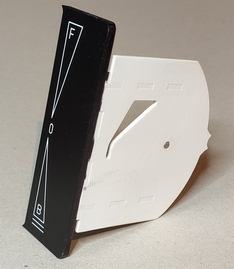
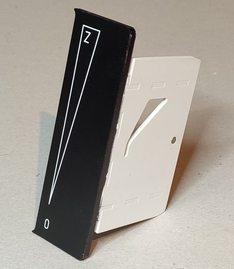
improve text

Changed region(s): [[0.0897, 0.0, 1.0, 0.9814], [0.5085, 0.5651, 0.5385, 0.5948], [0.0897, 0.9814, 0.1197, 1.0]]

diff --git a/_sass/moonwalk.scss b/_sass/moonwalk.scss
@@ -6,7 +6,7 @@ html { height: 100%; }
 body {
   font-family:  "Inter", -apple-system, "avenir next", avenir, roboto, noto, ubuntu, "helvetica neue", helvetica, sans-serif;
   font-size: 1.0rem;
-  line-height: 2;
+  line-height: 1.5;
   margin: 0;
   min-height: 100%;
 }
@@ -39,9 +39,10 @@ li { margin: 0.4em 0; }
 
 table, th, td {
   width: 100%;
-  border: thin solid black;
+  border: thin solid var(--border);
   border-collapse: collapse;
   padding: 0.4em;
+  vertical-align: top;
 }
 
 div.highlighter-rouge pre code, pre code.highlighter-rouge {
@@ -52,7 +53,7 @@ div.highlighter-rouge pre code, pre code.highlighter-rouge {
 
 blockquote {
   font-style: italic;
-  border: thin solid black;
+  border: thin solid var(--border);
   padding: 1em;
 
   p { margin: 0; }
@@ -74,6 +75,7 @@ img {
       --highlight: #FFECB2; // light yellow
       --code-text: #9D174D;
       --share-text: #999;
+      --border: #374151;
   }
 }
 // -------------- THEME SWITCHER -------------- //
@@ -88,6 +90,7 @@ img {
       --text-secondary: #9CA3AF;
       --code-text: #91A7FF;
       --share-text: #C4C4C4;
+      --border: #adb5bd;
   };
 }
 

diff --git a/_posts/2022-08-04-fahrpult.md b/_posts/2022-08-04-fahrpult.md
@@ -3,7 +3,7 @@ layout: post
 title: Fahrpult
 ---
 
-Nachdem mein RailDriver Fahrpult, das ich mit <a href="http://www.zusi.de/">Zusi 3</a> benutzt habe, den Geist aufgegeben hat, musste ein neues Fahrpult her. Da der Platz auf meinem Arbeitstisch beschränkt ist, musste das Pult zwar kompakt, aber noch ergonomisch zu bedienen sein.
+Nachdem mein RailDriver Fahrpult, das ich mit <a href="http://www.zusi.de/">Zusi 3</a> eingesetzt habe, den Geist aufgegeben hatte, musste ein neues Fahrpult her. Da der Platz auf meinem Arbeitstisch begrenzt ist, sollte das Pult ergonomisch bedienbar, aber auch möglichst kompakt sein.
 
 Der Rahmen aus Holz hat die Aussenmaße 80 x 30 cm.
 ![Bilder Fahrpult]({{ site.baseurl }}/assets/images/photos/Fahrpult/Fahrpult01.jpg)
@@ -11,25 +11,38 @@ Der Rahmen aus Holz hat die Aussenmaße 80 x 30 cm.
 Das Panel besteht aus 3 Teilen, die aus Polystyrol gefräst wurden.
 ![Bilder Fahrpult]({{ site.baseurl }}/assets/images/photos/Fahrpult/Fahrpult02.jpg)
 
-Fahr- und Bremshebel sind von StillerTec. Hier ist ein Bild vom Prototyp meines Fahrpultes.
+Fahr- und Bremshebel sind von StillerTec. Hier ist ein Bild vom Prototyp des Fahrpultes.
 ![Bilder Fahrpult]({{ site.baseurl }}/assets/images/photos/Fahrpult/Fahrpult03.jpg)
 
 Taster und Schalter sind vom Elektronikversand. Die Griffe dazu sind aus 9 mm Sperrholz gefräst, lackiert und aufgeklebt.
 ![Bilder Fahrpult]({{ site.baseurl }}/assets/images/photos/Fahrpult/Fahrpult04.jpg)
 
-Die USB-Schnittstelle zum PC ist ein PoKeys57U, der gleichzeitig als Joystick und als Tastatur arbeitet. Dadurch konnten neben den Hebeln und Tasten des Führerstandes auch die Tasten für Standort Führerstand/vorne/hinten sowie Zeitraffer, Pause und Zeitsprung realisiert werden.
+Die USB-Schnittstelle zum PC ist ein PoKeys57U, der gleichzeitig als Joystick und als Tastatur arbeitet. Dadurch konnten neben den Hebeln und Tasten des Führerstandes auch die Tasten für Blickrichtung (blau), Standort Führerstand/vorne/hinten, Zeitraffer, Pause und Zeitsprung realisiert werden.
 ![Bilder Fahrpult]({{ site.baseurl }}/assets/images/photos/Fahrpult/Fahrpult05.jpg)
 
-Eine Besonderheit dieses Fahrpult ist, dass die Haptik des Fahrhebels durch das Einsetzen von Kulissen an das Verhalten des Fahrhebels der simulierten Lok angepasst werden kann.
+Eine Besonderheit dieses Fahrpult ist, dass die Haptik des Fahrschalters durch das Einsetzen von Kulissen an den Fahrschalter der simulierten Lok angepasst werden kann.<br/>Die seitliche Ausnehmung dient in Verbindung mit dem schwarzen Drehknopf rechts zur Verriegelung und zum Auswurf der Kulisse.
 ![Bilder Fahrpult]({{ site.baseurl }}/assets/images/photos/Fahrpult/Fahrpult06.jpg)
 
-Federnd geht nicht.
-Dazu werden die Hebel in 4 Gruppen eingeteilt:
+An der Unterseite des Fahrschalters ist eine Halterung für eine Kunststoffschraube mit Hutmutter angebracht, die in den Rasten der Kulisse einrastet.
+![Bilder Fahrpult]({{ site.baseurl }}/assets/images/photos/Fahrpult/Fahrpult07.jpg)
 
-|---|
-|**1. Fahrhebel:**<br/>Darunter fallen alle Fahrschalter und Handräder, mit denen man die Fahrstufen von 0 bis zum Maximum durchschalten kann. Das ist die überwiegende Mehrheit. Die Raste für die Null ist bereits im StillerTec Hebel enthalten. Der restliche Bereich wird in die vom Führerstand vorgegebene Anzahl Stufen unterteilt.![Bilder Fahrpult]({{ site.baseurl }}/assets/images/photos/Fahrpult/Fahrpult07.jpg)|
-|**2. Fahr-/Bremshebel (Kombihebel):**<br/>Fahren und Bremsen auf einem Schalter mit der 0 in Mittelstellung. Gibt es mit (z.B. 423) oder ohne (z.B. Vectron) Schnellbremsstellung. Hier ist die Raste für Null in der Mitte, die Bereiche für Fahren und Bremsen sind nicht mit Rasten versehen.![Bilder Fahrpult]({{ site.baseurl }}/assets/images/photos/Fahrpult/Fahrpult08.jpg)|
-|**3. Auf/Ab(/Z):**<br/>Darunter fallen die Fahrschalter mit Auf/Ab-Steuerung (z.B. 141) und mit Auf/Ab/Z-Steuerung (z.B. 111). Hier gibt es Rasten für Null, Ab, Fahren und Auf. Der Z-Bereich ist gleich wie bei 1. gehalten.![Bilder Fahrpult]({{ site.baseurl }}/assets/images/photos/Fahrpult/Fahrpult09.jpg)|
-|**4. Fahr-/Bremshebel mit Auf/Ab:**<br/>Also quasi die Kombination aus 2 und 3 (z.B. 612). Hier hat einfach jede Funktion eine eigene Raste.![Bilder Fahrpult]({{ site.baseurl }}/assets/images/photos/Fahrpult/Fahrpult10.jpg)|
+Es gibt vier unterschiedliche Kulissen:
 
-Kunststoffschaube federnd in Kulisse
+<table>
+  <tr>
+    <td markdown="span" style="width:65%">**1. Fahrschalter:**<br/>Darunter fallen alle Fahrschalter und Handräder, mit denen man die Fahrstufen von 0 bis zum Maximum durchschalten kann. Das ist die überwiegende Mehrheit. Die Raste für die Null ist bereits im StillerTec Hebel enthalten, weitere Rasten braucht es nicht.</td>
+    <td markdown="span">![Bilder Fahrpult]({{ site.baseurl }}/assets/images/photos/Fahrpult/Fahrpult08.jpg)</td>
+  </tr>
+  <tr>
+    <td markdown="span" style="width:65%">**2. Fahr-/Bremsschalter (Kombischalter):**<br/>Fahren und Bremsen auf einem Schalter mit der 0 in Mittelstellung. Gibt es mit (z.B. 423) oder ohne (z.B. Vectron) Schnellbremsstellung. Hier ist die Raste für Null in der Mitte, die Bereiche für Fahren und Bremsen sind nicht mit Rasten versehen. Die Raste für die Schnellbremsstellung wird vom StillerTec Hebel bereitgestellt.</td>
+    <td markdown="span">![Bilder Fahrpult]({{ site.baseurl }}/assets/images/photos/Fahrpult/Fahrpult09.jpg)</td>
+  </tr>
+  <tr>
+    <td markdown="span" style="width:65%">**3. Auf/Ab(/Z):**<br/>Darunter fallen die Fahrschalter mit Auf/Ab-Steuerung (z.B. 141) und mit Auf/Ab/Z-Steuerung (z.B. 111). Hier gibt es Rasten für Null, Ab, Fahren und Auf. Der Z-Bereich hat keine Rasten.</td>
+    <td markdown="span">![Bilder Fahrpult]({{ site.baseurl }}/assets/images/photos/Fahrpult/Fahrpult10.jpg)</td>
+  </tr>
+  <tr>
+    <td markdown="span" style="width:65%">**4. Fahr-/Bremsschalter mit Auf/Ab:**<br/>Also quasi die Kombination aus 2 und 3 (z.B. 612). Hier hat einfach jede Funktion eine eigene Raste.</td>
+    <td markdown="span">![Bilder Fahrpult]({{ site.baseurl }}/assets/images/photos/Fahrpult/Fahrpult11.jpg)</td>
+  </tr>
+</table>
